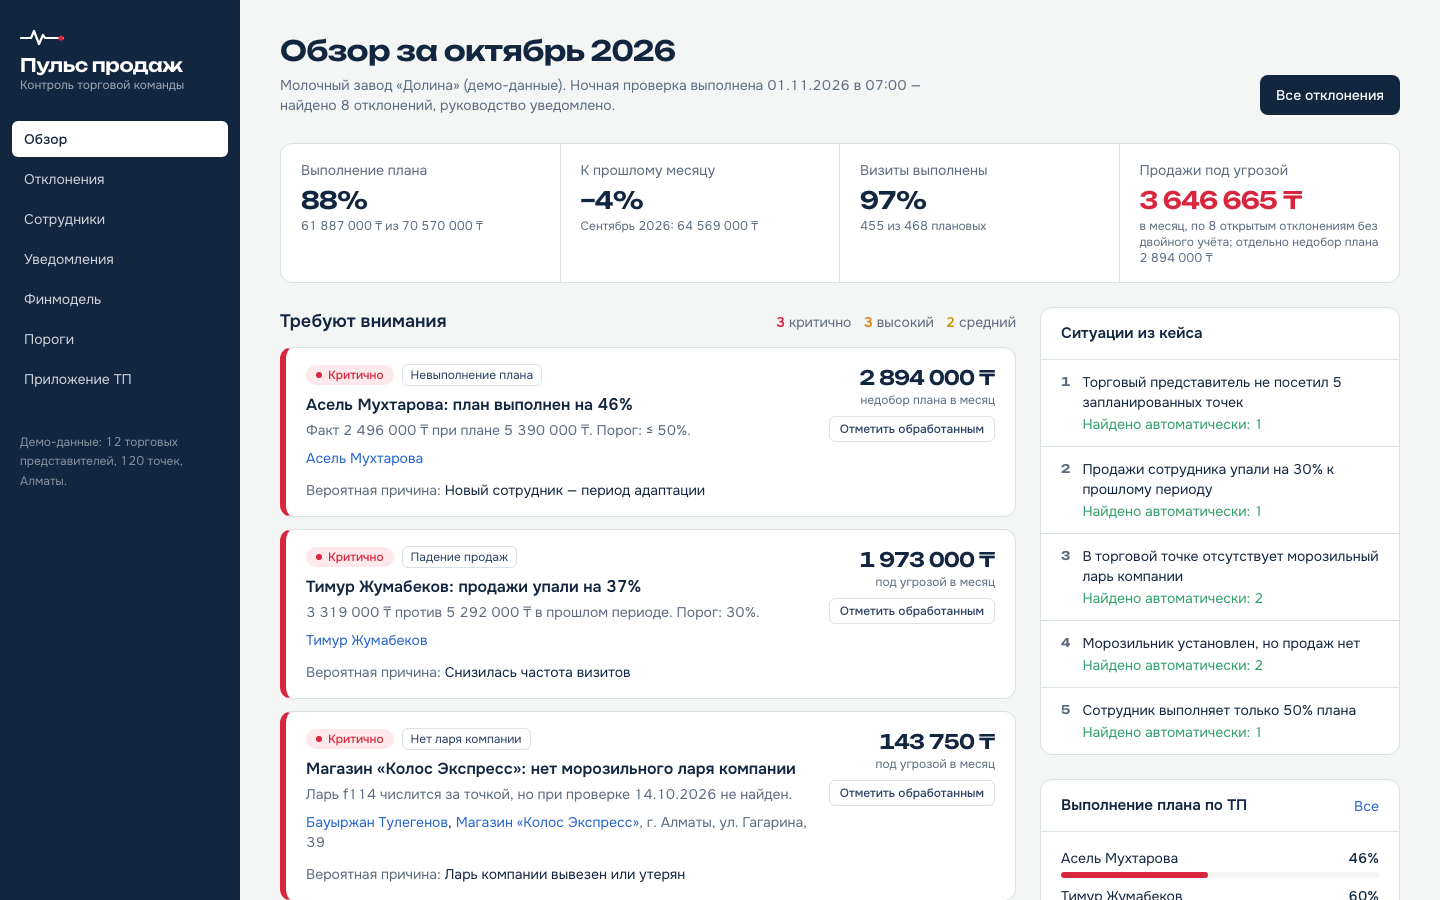
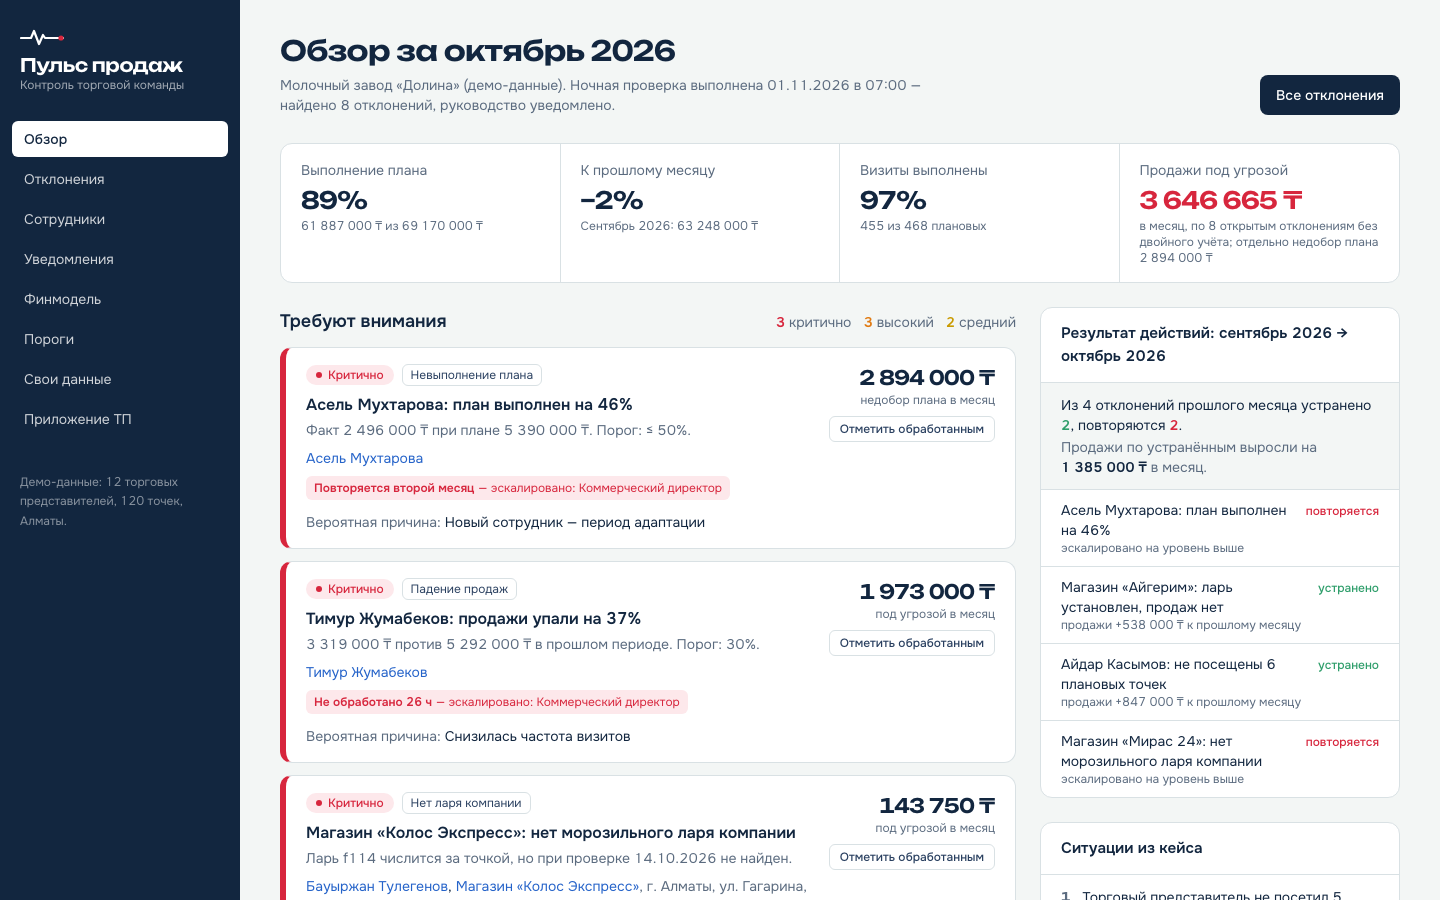
Phase 3: HANDOFF, LOG, new screenshots from production

diff --git a/HANDOFF.md b/HANDOFF.md
@@ -4,7 +4,7 @@
 > Read this first after `git pull`. Keep it short and true.
 > Updated after every finished task (by the night agent or by you).
 
-**Last updated:** 2026-11-19 05:00 · by: Claude (lead, night run, phase 2) · branch: `night/2026-11-19`
+**Last updated:** 2026-11-19 06:57 · by: Claude (interactive session, phase 3) · branch: `night/2026-11-19`
 
 ## Deadline & submission
 **Final deadline: 20.11.2026, 17:00** (late submissions rejected). Case: Business —
@@ -24,22 +24,22 @@ per Hack.IT template, presentation, financial model (.xlsx), video of the produc
 - [ ] Sent to Telegram @hackit_administration before 20.11 17:00
 
 ## Status
-**Night run finished (phase 1 + phase 2) — every acceptance criterion in `night/SPEC.md` verified,
-`night/DONE` created.** Production https://puls-prodazh-nine.vercel.app shows the phase-2 version
-(checked 05:00: `/mobile`, `/finance` breakeven, «Отметить обработанным» survives reload).
+**Phases 1–3 done.** Night run (phases 1–2) finished with `night/DONE`; phase 3 (jury-gap fixes, see
+below) done interactively. Production https://puls-prodazh-nine.vercel.app shows the phase-3 version
+(checked 2026-11-19 06:57: dashboard «Результат действий» + escalation, `/import` example → 6 alerts,
+`/mobile` route optimisation + «Мой план», `/finance` with ramp-up). 65 tests, smoke, finance verify green.
 What's left is for humans (video, slides, template, submission) — see "Left to do".
 
 ## Done
 - Next.js 15 app (`src/app/`): обзор `/`, отклонения `/alerts` (фильтры), сотрудники `/reps`,
   карточка ТП `/reps/[id]`, карточка точки `/outlets/[id]`, уведомления `/notifications`.
 - Engine (`src/lib/engine/`): 6 detectors (5 case situations + GPS), cause rules with evidence,
-  recommended actions, notification routing/texts, thresholds in `config.ts`. 43 vitest tests.
+  recommended actions, notification routing/texts, thresholds in `config.ts`. 65 vitest tests (after phase 3).
 - Demo data (`src/lib/data/generate.ts`): 12 reps, 120 outlets, 95 freezers, 4 months, 948 visits;
   8 alerts found (3 critical / 3 high / 2 medium), 7 002 665 ₸/мес at risk.
-- Finance model (`finance/`, by codex): budget 27 170 000 ₸ / 6 months; base net effect
-  81 600 000 ₸/year, ROI 200,3%, payback 4,0 months after launch (phase 2: revenue built bottom-up
-  25 ТП × 100 точек × 200 000 ₸ × 12 = 6 млрд ₸; write-offs at cost; breakeven: 1,18% sales uplift
-  pays back within 12 months from start).
+- Finance model (`finance/`): budget 27 170 000 ₸ / 6 months; base net effect 81 600 000 ₸/year at
+  full run-rate. Current numbers (phase 3, with 6-month ramp-up) — see «Phase 3» below; older numbers
+  in the phase 1/2 notes are superseded.
 - Pages `/finance` (budget, scenarios, assumptions from `finance/summary.json`, by gemini) and
   `/settings` (live threshold playground, by codex). Finance v2: cash flow 24 months (payback month 10
   from project start, NPV 75 242 934 ₸ at 16%) and sensitivity sheet (codex).
@@ -60,6 +60,26 @@ What's left is for humans (video, slides, template, submission) — see "Left to
 - Docs: SFA-class comparison + jury answers («чем вы лучше готовых систем?», «откуда 6 млрд?»),
   DEMO steps for alert handling and `/mobile`, all numbers synced, screenshots retaken from production.
 
+## Phase 3 (done 2026-11-19, interactive) — gaps found in self-review
+- Finance ramp-up: effect grows linearly over 6 months after launch (`Допущения!B16`), OPEX from launch.
+  Base: payback 6,8 мес. after launch (13th month from start), ROI over 12 months of operation 131,3%,
+  NPV 58 327 221 ₸; pessimistic payback 11,3 мес.; breakeven (12 months after launch): 0% uplift needed
+  with freezer+write-off effects, 3,0% without them; no freezers → 15th month. Same closed-form payback
+  in Excel and Python, `verify.py` checks both and that the cash-flow month = 6 + ceil(payback).
+- Seasonality guard: «ларь без продаж» is not raised when the other freezers also sell < 50% of their
+  3-month average (`freezerSeasonalDropPct`); cause «Не сезонность: остальные лари продают — 95%».
+- `/import`: CSV upload (reps/outlets/sales/plans/visits/freezers/managers, «;» or «,», RU dates),
+  in-browser analysis, templates; independent «другой регион» example (Караганда) → 6 alerts.
+  Round-trip test: demo → CSV → import gives identical alerts.
+- Closed loop (`src/lib/engine/loop.ts`): `asOfPeriod` + detectors on September → 2 of 4 resolved
+  (+1 385 000 ₸/мес), 2 persisting; SLA escalation (24/72/120 ч, demo now 02.11 10:00), recurring →
+  escalated at once; «обработано» clears it. Demo data got 2 September deviations (r01 visits, o012 freezer);
+  RNG order kept, so October numbers are unchanged except plan 69 170 000 ₸ (89%) and −2% vs September.
+- `/mobile`: demo day = r03's weekly route (10 outlets); «Оптимизировать порядок» 21,4 → 10,6 км (≈26 мин);
+  tab «Мой план»: 91% plan, bonus forecast 115 807 ₸ (example scheme), 455 000 ₸ to 100%, outlet hints.
+- Docs/README/DEMO (steps 1, 7а, 7б)/PITCH (slides 3–5, 7 + 3 new jury answers) updated; screenshots
+  01, 06, 08 retaken from prod, 09 (`/import`) and 10 («Мой план») added.
+
 ## In progress
 - Nothing.
 
@@ -69,7 +89,9 @@ What's left is for humans (video, slides, template, submission) — see "Left to
 3. Slides from `docs/PITCH.md`; documentation into the Hack.IT template; fill team names.
 4. Open `finance/financial-model.xlsx` in Excel, check sheets, Save — the file is generated with
    formulas only (Excel recalculates on open); saving stores the values so previews show numbers.
-5. Optional: rehearse the Q&A in `docs/PITCH.md` (incl. «чем вы лучше SFA?», «откуда 6 млрд?»).
+5. Rehearse the Q&A in `docs/PITCH.md` (incl. «чем вы лучше SFA?», «откуда 6 млрд?», «вы же сами
+   заложили ситуации?», «как понять, что помогает?», «зимой лари?»). DEMO with all steps ≈ 3,5 мин —
+   drop optional steps (2-доп., 6) if the video must be ≤ 3 мин.
 6. Send everything to @hackit_administration.
 
 ## Decisions & assumptions

diff --git a/docs/DOCUMENTATION.md b/docs/DOCUMENTATION.md
@@ -415,7 +415,9 @@ if (drop < c.salesDropPct) return [];   // порог 0.3 из config.ts
 | Уведомления руководству | ![Уведомления](screenshots/05-uvedomleniya.png) |
 | Финансовая модель в приложении | ![Финмодель](screenshots/06-finmodel.png) |
 | Настройка порогов | ![Пороги](screenshots/07-porogi.png) |
-| Прототип приложения ТП (`/mobile`) | ![Приложение ТП](screenshots/08-prilozhenie-tp.png) |
+| Приложение ТП: оптимизированный маршрут (`/mobile`) | ![Приложение ТП](screenshots/08-prilozhenie-tp.png) |
+| Приложение ТП: «Мой план», премия и подсказки | ![Мой план](screenshots/10-moy-plan-tp.png) |
+| Проверка на своих данных (`/import`, пример другого региона) | ![Свои данные](screenshots/09-svoi-dannye.png) |
 
 ## Заключение
 

diff --git a/night/LOG.md b/night/LOG.md
@@ -179,3 +179,12 @@
   summary.json ✓; risk KPI no double counting, write-offs at cost ✓; SFA comparison + 2 answers ✓;
   handled works on deploy after reload, tests green ✓; npm test + smoke green, prod shows new version ✓.
   Creating night/DONE.
+
+## 2026-11-19 06:57 claude (interactive, phase 3)
+- Owner asked to close all gaps from the self-review. Done: finance ramp-up (6 мес.), freezer seasonality
+  guard, /import (CSV + second-region example), closed loop (outcomes of last month + SLA escalation),
+  rep value on /mobile (route optimisation, bonus forecast, hints). Docs synced, screenshots retaken.
+- Verified: tsc, eslint, 65 tests, finance verify, smoke (incl. /import, /settings); vercel deploy --prod,
+  prod checked with Playwright (numbers match docs).
+- Assumptions: bonus scheme is an example (150 000 ₸ base, 80% floor); demo "now" = 02.11.2026 10:00;
+  SLA 24/72/120 h; seasonality threshold 50% vs 3-month average.
